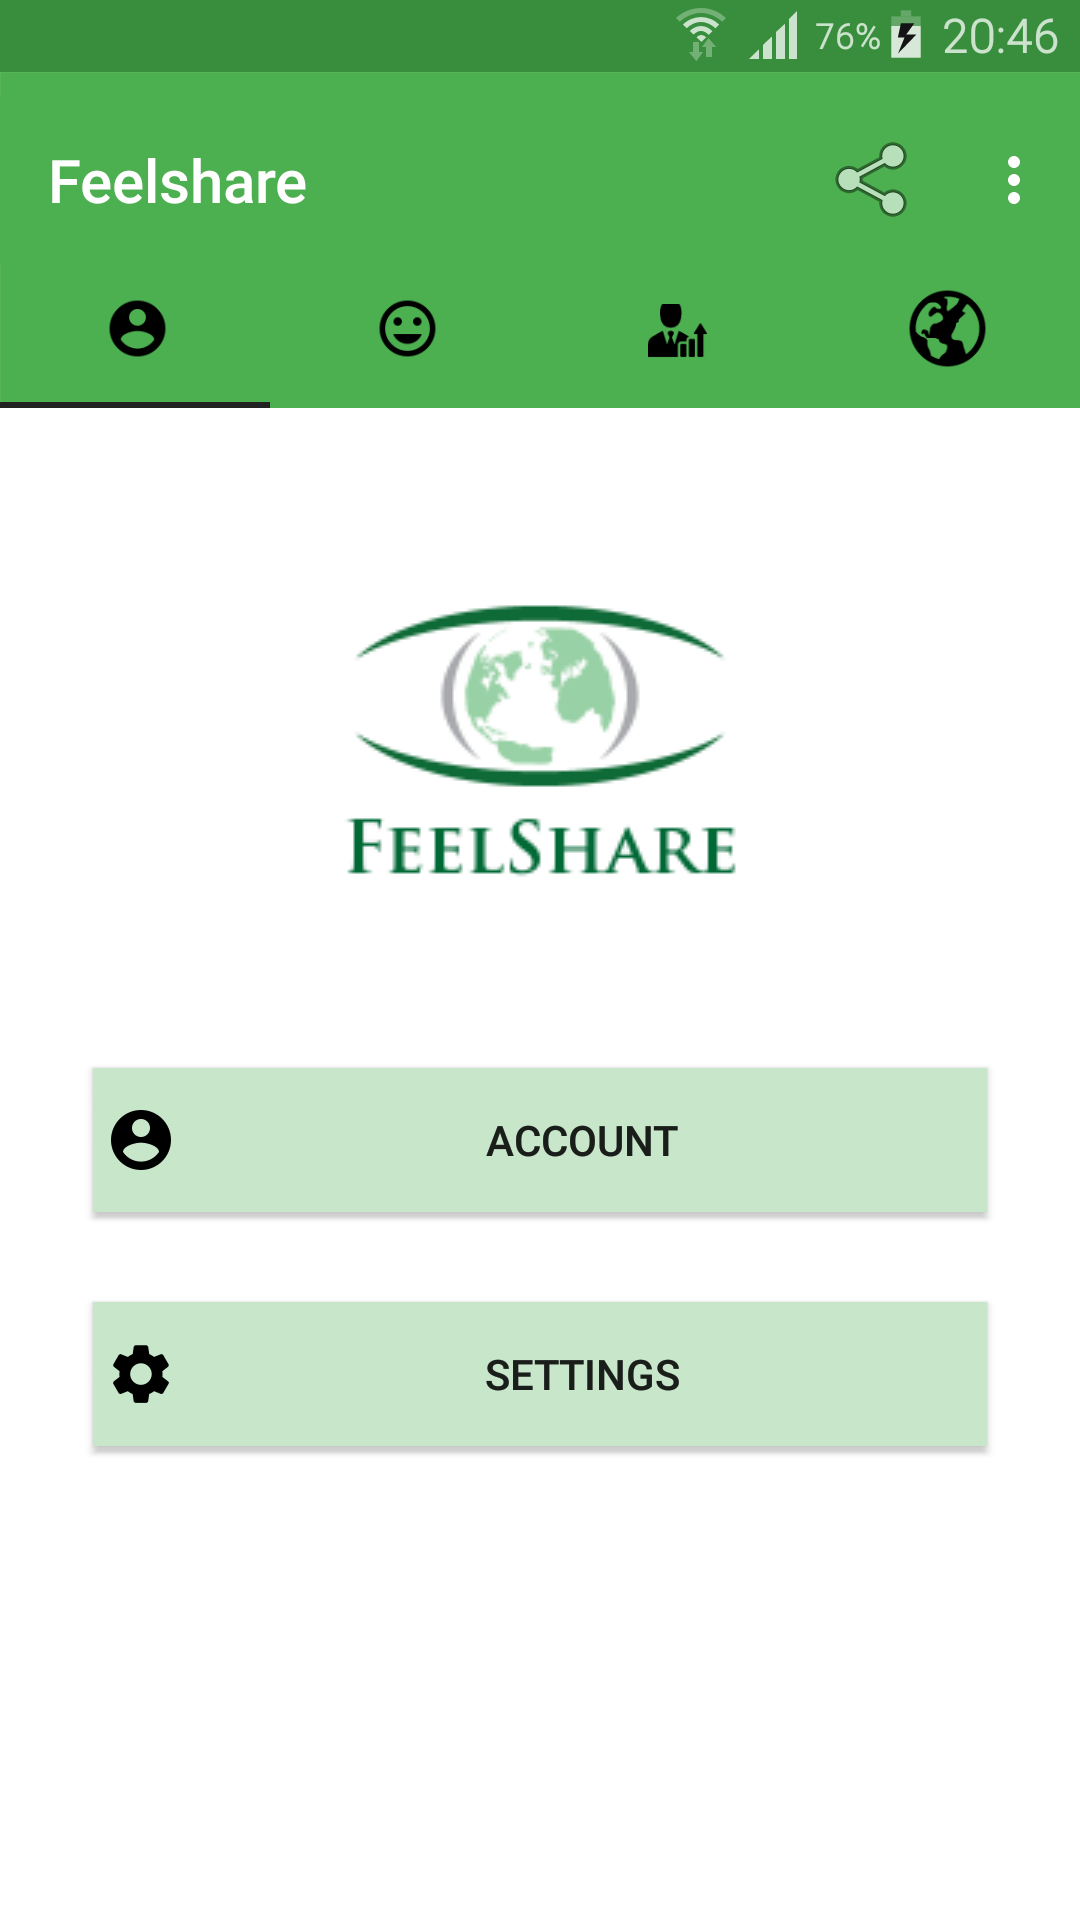
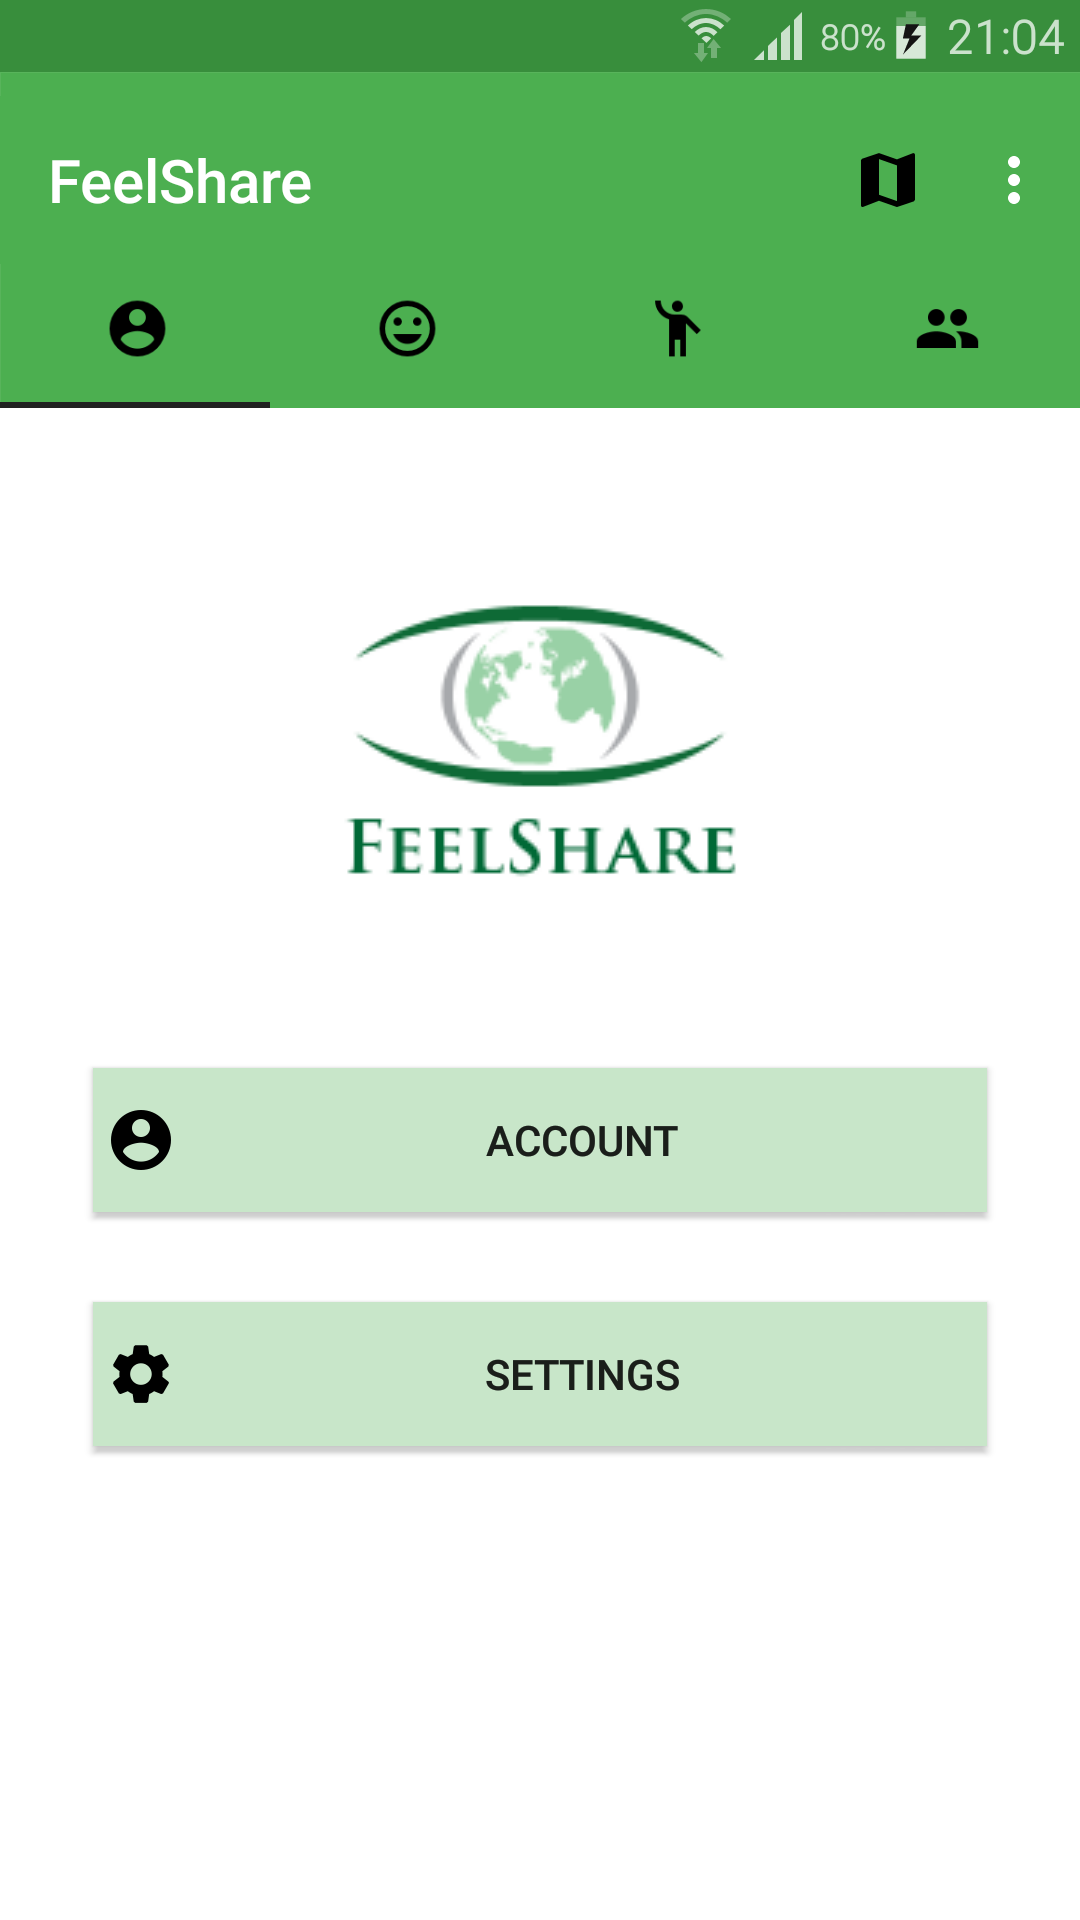
Deploy sogloarcadius/feelshare to github.com/sogloarcadius/feelshare.git:gh-pages

diff --git a/privacy/index.html b/privacy/index.html
@@ -6,10 +6,10 @@
   <meta charset="utf-8">
   <meta http-equiv="X-UA-Compatible" content="IE=edge">
   <meta name="viewport" content="width=device-width, initial-scale=1">
-  <title> Feelshare Privacy Policy </title>
+  <title> FeelShare Privacy Policy </title>
 
   
-  <meta name="description" content="Last updated: 08 May 2020"> 
+  <meta name="description" content="Last updated: 22 June 2020"> 
   
   
   
@@ -23,8 +23,8 @@
   <meta name="author" content="sogloarcadius">
 
 
-  <meta property="og:title" content="Feelshare Privacy Policy" />
-<meta property="og:description" content="Last updated: 08 May 2020" />
+  <meta property="og:title" content="FeelShare Privacy Policy" />
+<meta property="og:description" content="Last updated: 22 June 2020" />
 <meta property="og:type" content="website" />
 <meta property="og:url" content="https://sogloarcadius.github.io/feelshare/privacy/" />
 
@@ -91,26 +91,26 @@
   <main>
 
 <div id="hero" class="wrap">
-  <h1>Feelshare Privacy Policy</h1>
-    <p>Last updated: 08 May 2020<br></p>
+  <h1>FeelShare Privacy Policy</h1>
+    <p>Last updated: 22 June 2020<br></p>
 </div>
 <div id="kube-privacy">
 <h2 id="privacy-policy">Privacy Policy</h2>
-<p>This page informs you of our policies regarding the collection, use and disclosure of Personal Information we receive from users of Feelshare.</p>
+<p>This page informs you of our policies regarding the collection, use and disclosure of Personal Information we receive from users of FeelShare.</p>
 <p>We use your Personal Information only for providing and improving the application. By using the application, you agree to the collection and use of information in accordance with this policy.</p>
-<h2 id="information-collection-and-use">Information Collection And Use</h2>
-<p>While using our application, we may ask you to provide us with certain personally identifiable information that can be used to contact or identify you. Personally identifiable information may include, but is not limited to your name, email (&ldquo;Personal Information&rdquo;).</p>
+<h2 id="personal-information-collection-and-use">Personal Information Collection And Use</h2>
+<p>While using our application, we may ask you to provide us with certain personally identifiable information that can be used to contact or identify you. Personally identifiable information may include but is not limited to your name, email.</p>
 <h2 id="log-data">Log Data</h2>
-<p>Like many site operators, we collect information that your browser/phone sends whenever you visit our application (&ldquo;Log Data&rdquo;).</p>
-<p>This Log Data may include information such as your computer&rsquo;s Internet Protocol (&ldquo;IP&rdquo;) address, browser/phone type, browser/phone version, the pages of our application that you visit, the time and date of your visit, the time spent on those pages and other statistics.</p>
-<p>In addition, we may use third party services such as Google Analytics that collect, monitor and analyze this …</p>
+<p>Like many site operators, we collect information that your phone sends whenever you visit our application.</p>
+<p>This Log Data may include information such as your computer&rsquo;s Internet Protocol (&ldquo;IP&rdquo;) address, phone type, phone version, the pages(screens) of our application that you visit, the time and date of your visit, the time spent on those pages and other statistics.</p>
+<p>In addition, we may use third party services such as Google Analytics that collect, monitor and analyze this data.</p>
 <h2 id="communications">Communications</h2>
-<p>We may use your Personal Information to contact you with newsletters, marketing or promotional materials and other information that …</p>
+<p>We may use your Personal Information to contact you with newsletters, marketing or promotional materials and other information.</p>
 <p>You can disable it in the settings page of the application.</p>
 <h2 id="security">Security</h2>
 <p>The security of your Personal Information is important to us, but remember that no method of transmission over the Internet, or method of electronic storage, is 100% secure. While we strive to use commercially acceptable means to protect your Personal Information, we cannot guarantee its absolute security.</p>
 <h2 id="changes-to-this-privacy-policy">Changes To This Privacy Policy</h2>
-<p>This Privacy Policy is effective as of May 2020 and will remain in effect except with respect to any changes in its provisions in the future, which will be in effect immediately after being posted on this page.</p>
+<p>This Privacy Policy is effective as of June 2020 and will remain in effect except with respect to any changes in its provisions in the future, which will be in effect immediately after being posted on this page.</p>
 <p>We reserve the right to update or change our Privacy Policy at any time and you should check this Privacy Policy periodically. Your continued use of the Service after we post any modifications to the Privacy Policy on this page will constitute your acknowledgment of the modifications and your consent to abide and be bound by the modified Privacy Policy.</p>
 <p>If we make any material changes to this Privacy Policy, we will notify you either through the email address you have provided us, or by placing a prominent notice on our application.</p>
 <h2 id="contact-us">Contact Us</h2>

diff --git a/index.html b/index.html
@@ -9,7 +9,7 @@
   <title> FEELSHARE </title>
 
   
-  <meta name="description" content="Feelshare is an Application to see the world feelings and yours !"> 
+  <meta name="description" content="FeelShare is an Application to see the world feelings and yours !"> 
   
   
   
@@ -21,8 +21,8 @@
   <meta name="author" content="sogloarcadius">
 
 
-  <meta property="og:title" content="Feelshare" />
-<meta property="og:description" content="Feelshare is an Application to see the world feelings and yours !" />
+  <meta property="og:title" content="FeelShare" />
+<meta property="og:description" content="FeelShare is an Application to see the world feelings and yours !" />
 <meta property="og:type" content="website" />
 <meta property="og:url" content="https://sogloarcadius.github.io/feelshare/" />
 
@@ -94,9 +94,9 @@
 
 <div id="main">
   <div id="hero">
-    <h1>Feelshare</h1>
+    <h1>FeelShare</h1>
     <img alt="logo" src="/feelshare/img/favicons/feelshare.png">
-    <p>Feelshare is an Application to see the world feelings and yours !</p>
+    <p>FeelShare is an Application to see the world feelings and yours !</p>
   </div>
 
   <div id="action-buttons">
@@ -132,13 +132,19 @@
         <figure>
           <img alt="chartuser" src="/feelshare/img/captures/screen4.png" width="200" height="400">
         </figure>
-        <h3>User Overview</h3>
+        <h3>User Moods</h3>
       </div>
       <div class="col col-4 item">
         <figure>
           <img alt="chartworld" src="/feelshare/img/captures/screen5.png" width="200" height="400">
         </figure>
-        <h3>World Overview</h3>
+        <h3>World Moods</h3>
+      </div>
+      <div class="col col-4 item">
+        <figure>
+          <img alt="googlemap" src="/feelshare/img/captures/screen6.png" width="200" height="400">
+        </figure>
+        <h3>Top Mood</h3>
       </div>
     </div>
 </div>

diff --git a/faq/index.html b/faq/index.html
@@ -96,8 +96,8 @@
 </div>
 <div id="kube-faq">
 <h2 id="how-to-delete-my-account-data-">How to delete my account data ?</h2>
-<p>Send an email to <a href="mailto:sogloarcadius@gmail.com">sogloarcadius@gmail.com</a> with your request and we will delete your account and all related data.</p>
-<p>Make sure you send your request using your feelshare account email address and upon verification, we will delete your account.</p>
+<p>Send an email to <a href="mailto:sogloarcadius@gmail.com">sogloarcadius@gmail.com</a> with your request and I will delete your account and all related data.</p>
+<p>Make sure you send your request using your FeelShare account email address and upon verification, I will delete your account.</p>
 
 </div>
 </main>
